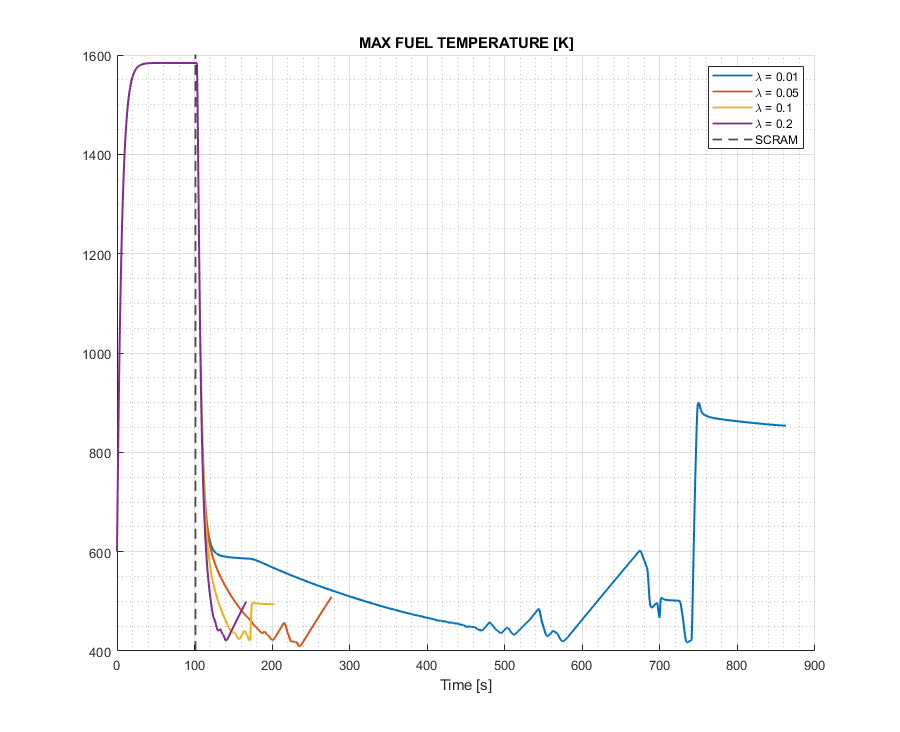
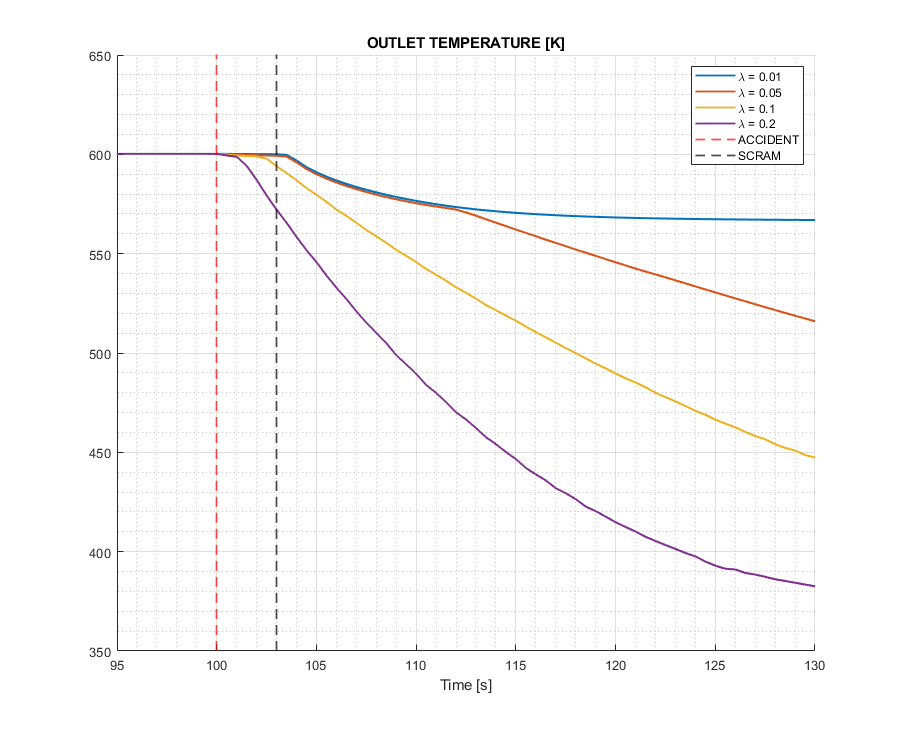
update

diff --git a/Transients/PWR/Depressurization/SCRAM/analysis/analyze.html b/Transients/PWR/Depressurization/SCRAM/analysis/analyze.html
@@ -67,7 +67,7 @@ table td { padding:7px 5px; text-align:left; vertical-align:top; border:1px soli
 
 
 
-  </style></head><body><div class="content"><img vspace="5" hspace="5" src="analyze_01.png" alt=""> <img vspace="5" hspace="5" src="analyze_02.png" alt=""> <img vspace="5" hspace="5" src="analyze_03.png" alt=""> <p class="footer"><br><a href="https://www.mathworks.com/products/matlab/">Published with MATLAB&reg; R2022a</a><br></p></div><!--
+  </style></head><body><div class="content"><img vspace="5" hspace="5" src="analyze_01.png" alt=""> <img vspace="5" hspace="5" src="analyze_02.png" alt=""> <img vspace="5" hspace="5" src="analyze_03.png" alt=""> <img vspace="5" hspace="5" src="analyze_04.png" alt=""> <img vspace="5" hspace="5" src="analyze_05.png" alt=""> <img vspace="5" hspace="5" src="analyze_06.png" alt=""> <img vspace="5" hspace="5" src="analyze_07.png" alt=""> <p class="footer"><br><a href="https://www.mathworks.com/products/matlab/">Published with MATLAB&reg; R2022a</a><br></p></div><!--
 ##### SOURCE BEGIN #####
 addpath(genpath('../../../../../utils/'));
 warning('OFF', 'MATLAB:table:ModifiedAndSavedVarnames')
@@ -80,7 +80,8 @@ clc
 %%%%%%%%%%%%%%%%%%%%%%%%%%%%%%%%%%%%%%%%%%%%%%%%%
 
 lambdas = [0.01, 0.05, 0.1, 0.2];
-scram_time = 101; % [s]
+accident_time = 100; % [s]
+scram_time = 103;    % [s]
 
 % Creo una struct. Ogni elemento di questa struct rappresenta un
 % esperimento di depressurizzazione. Esiste un field principale detto
@@ -114,8 +115,9 @@ for i=1:length(lambdas)
 
     % CALCOLO CHF_W3 (devo fare un loop per come è implementata la
     % correlazione (richiede vettori, non matrici)
+    data(i).CHF_W3 = [];
     for j=1:length(data(i).time)
-        data(i).CHF_W3 = CHF_W3(data(i).pressure_axial(j,:), data(i).quality_axial(j,:), 0.335, data(i).enthalpy_f_axial(j,:), data(i).heat_flux_axial(j,:), 8.79e-5, 1.17808e-2, 3.876); % [kW/m2]
+        data(i).CHF_W3 = [data(i).CHF_W3; CHF_W3(data(i).pressure_axial(j,:), data(i).quality_axial(j,:), 0.335, data(i).enthalpy_f_axial(j,:), data(i).heat_flux_axial(j,:), 8.79e-5, 1.17808e-2, 3.876)]; % [kW/m2]
     end
 
     data(i).CHFR = data(i).CHF_W3./data(i).heat_flux_axial;
@@ -138,22 +140,24 @@ for i=1:length(lambdas)
     new = sprintf("\\lambda = %s", string(lambdas(i)));
     labels = [labels new];
 end
-labels = [labels "SCRAM"];
+labels = [labels "ACCIDENT" "SCRAM"];
 
 
 
 % REPLACE_WITH_DASH_DASHREPLACE_WITH_DASH_DASHREPLACE_WITH_DASH_DASH TOTAL POWER REPLACE_WITH_DASH_DASHREPLACE_WITH_DASH_DASHREPLACE_WITH_DASH_DASH-
-f = figure('Position', [10 10 900 900], 'Visible','off');
+f = figure('Position', [10 10 900 900]);
 hold on
 for i=1:length(data)
     plot(data(i).time,data(i).power, 'LineWidth', 1.3);
 end
+xline(accident_time, 'LineWidth', 1.4, 'LineStyle', 'REPLACE_WITH_DASH_DASH', 'Color', 'r')
 xline(scram_time, 'LineWidth', 1.4, 'LineStyle', 'REPLACE_WITH_DASH_DASH', 'Color', 'k')
 hold off
 grid on, grid minor
 xlabel('Time [s]')
 title('TOTAL POWER EXCHANGED [kW]')
 legend(labels)
+xlim([95 120])
 %saveas(f, "TOTAL POWER.png")
 
 
@@ -163,11 +167,13 @@ hold on
 for i=1:length(data)
     plot(data(i).time,data(i).outlet_temperature, 'LineWidth', 1.3);
 end
+xline(accident_time, 'LineWidth', 1.4, 'LineStyle', 'REPLACE_WITH_DASH_DASH', 'Color', 'r')
 xline(scram_time, 'LineWidth', 1.4, 'LineStyle', 'REPLACE_WITH_DASH_DASH', 'Color', 'k')
 hold off
 grid on, grid minor
 xlabel('Time [s]')
 title('OUTLET TEMPERATURE [K]')
+xlim([95 130])
 legend(labels)
 
 
@@ -179,11 +185,13 @@ hold on
 for i=1:length(data)
     plot(data(i).time,max(data(i).max_fuel_temp_axial, [], 2), 'LineWidth', 1.3);
 end
+xline(accident_time, 'LineWidth', 1.4, 'LineStyle', 'REPLACE_WITH_DASH_DASH', 'Color', 'r')
 xline(scram_time, 'LineWidth', 1.4, 'LineStyle', 'REPLACE_WITH_DASH_DASH', 'Color', 'k')
 hold off
 grid on, grid minor
 xlabel('Time [s]')
 title('MAX FUEL TEMPERATURE [K]')
+xlim([95 160])
 legend(labels)
 
 
@@ -193,13 +201,62 @@ hold on
 for i=1:length(data)
     plot(data(i).time,min(data(i).CHFR, [], 2), 'LineWidth', 1.3);
 end
+xline(accident_time, 'LineWidth', 1.4, 'LineStyle', 'REPLACE_WITH_DASH_DASH', 'Color', 'r')
 xline(scram_time, 'LineWidth', 1.4, 'LineStyle', 'REPLACE_WITH_DASH_DASH', 'Color', 'k')
 hold off
 grid on, grid minor
 xlabel('Time [s]')
 title('MDNBR (W-3 Correlation)')
+ylim([0 7])
+xlim([95 106])
 legend(labels)
 
+% REPLACE_WITH_DASH_DASHREPLACE_WITH_DASH_DASHREPLACE_WITH_DASH_DASH- MEAN VOID FRACTION REPLACE_WITH_DASH_DASHREPLACE_WITH_DASH_DASHREPLACE_WITH_DASH_DASH-
+figure('Position', [10 10 900 900])
+hold on
+for i=1:length(data)
+    plot(data(i).time,mean(data(i).void_fraction_axial,2), 'LineWidth', 1.3);
+end
+xline(accident_time, 'LineWidth', 1.4, 'LineStyle', 'REPLACE_WITH_DASH_DASH', 'Color', 'r')
+xline(scram_time, 'LineWidth', 1.4, 'LineStyle', 'REPLACE_WITH_DASH_DASH', 'Color', 'k')
+hold off
+grid on, grid minor
+xlabel('Time [s]')
+title('MEAN VOID FRACTION')
+ylim([0 1])
+xlim([95 160])
+legend(labels)
+
+
+% REPLACE_WITH_DASH_DASHREPLACE_WITH_DASH_DASHREPLACE_WITH_DASH_DASH- MEAN PRESSURE REPLACE_WITH_DASH_DASHREPLACE_WITH_DASH_DASHREPLACE_WITH_DASH_DASH-
+figure('Position', [10 10 900 900])
+hold on
+for i=1:length(data)
+    plot(data(i).time,mean(data(i).pressure_axial,2)./1e5, 'LineWidth', 1.3);
+end
+xline(accident_time, 'LineWidth', 1.4, 'LineStyle', 'REPLACE_WITH_DASH_DASH', 'Color', 'r')
+xline(scram_time, 'LineWidth', 1.4, 'LineStyle', 'REPLACE_WITH_DASH_DASH', 'Color', 'k')
+hold off
+grid on, grid minor
+xlabel('Time [s]')
+title('MEAN PRESSURE [bar]')
+xlim([95 160])
+legend(labels)
+
+% REPLACE_WITH_DASH_DASHREPLACE_WITH_DASH_DASHREPLACE_WITH_DASH_DASH- MEAN HTC REPLACE_WITH_DASH_DASHREPLACE_WITH_DASH_DASHREPLACE_WITH_DASH_DASH-
+figure('Position', [10 10 900 900])
+hold on
+for i=1:length(data)
+    plot(data(i).time,mean(data(i).htc_axial,2), 'LineWidth', 1.3);
+end
+xline(accident_time, 'LineWidth', 1.4, 'LineStyle', 'REPLACE_WITH_DASH_DASH', 'Color', 'r')
+xline(scram_time, 'LineWidth', 1.4, 'LineStyle', 'REPLACE_WITH_DASH_DASH', 'Color', 'k')
+hold off
+grid on, grid minor
+xlabel('Time [s]')
+title('MEAN HTC [kW/m^2/°K]')
+xlim([95 110])
+legend(labels)
 
 
 
@@ -208,34 +265,42 @@ legend(labels)
 %%%%%%%%%%%%%%%%%%%%%%%%%%%%%%%%%%%%%%%%%%%%%%%%%
 
 % % REPLACE_WITH_DASH_DASHREPLACE_WITH_DASH_DASH- PROFILE CHFR REPLACE_WITH_DASH_DASHREPLACE_WITH_DASH_DASHREPLACE_WITH_DASH_DASH-
-% idx = 2;
+% idx = 1;
+% f0 = 1; % initial frame (timestep)
 % figure('Position', [10 10 300 900])
-% axial_plot(horzcat(data(idx).time, data(idx).CHFR), true, 'Animation Profile - CHFR (W3)', 'CHFR', 10)
+% axial_plot(horzcat(data(idx).time(f0:end,:), data(idx).CHFR(f0:end,:)), true, 'Animation Profile - CHFR (W3)', 'CHFR', 10)
 
 % 
-% % REPLACE_WITH_DASH_DASHREPLACE_WITH_DASH_DASH- PROFILE HTMODE REPLACE_WITH_DASH_DASHREPLACE_WITH_DASH_DASHREPLACE_WITH_DASH_DASH-
-% idx = 1;
-% f0 = 180; % initial frame (timestep)
+% REPLACE_WITH_DASH_DASHREPLACE_WITH_DASH_DASH- PROFILE HTMODE REPLACE_WITH_DASH_DASHREPLACE_WITH_DASH_DASHREPLACE_WITH_DASH_DASH-
+% idx = 2;
+% f0 = 195; % initial frame (timestep)
 % figure('Position', [10 10 300 900])
 % htmode_plot(horzcat(data(idx).time(f0:end,:), data(idx).ht_mode_axial(f0:end,:)), true, 'Animation Profile - Heat Transfer Mode', '', 1)
+
+% REPLACE_WITH_DASH_DASHREPLACE_WITH_DASH_DASH- PROFILE FLOW REGIME REPLACE_WITH_DASH_DASHREPLACE_WITH_DASH_DASHREPLACE_WITH_DASH_DASH-
+% idx = 2;
+% f0 = 180; % initial frame (timestep)
+% figure('Position', [10 10 300 900])
+% flowreg_plot(horzcat(data(idx).time(f0:end,:), data(idx).flow_regimes_axial(f0:end,:)), true, 'Animation Profile - Flow Regime', '', 1)
+
 %
 % % REPLACE_WITH_DASH_DASHREPLACE_WITH_DASH_DASH- PROFILE HTC REPLACE_WITH_DASH_DASHREPLACE_WITH_DASH_DASHREPLACE_WITH_DASH_DASH-
 % idx = 1;
 % f0 = 1; % initial frame (timestep)
 % figure('Position', [10 10 300 900])
 % axial_plot(horzcat(data(idx).time(f0:end,:), data(idx).htc_axial(f0:end,:)), true, 'Animation Profile - HTC [kW/m^2/°K]', 'HTC [kW/m^2/°K]', 60)
-%
-% % REPLACE_WITH_DASH_DASHREPLACE_WITH_DASH_DASH- PROFILE VOID FRACTION REPLACE_WITH_DASH_DASHREPLACE_WITH_DASH_DASHREPLACE_WITH_DASH_DASH-
+
+% REPLACE_WITH_DASH_DASHREPLACE_WITH_DASH_DASH- PROFILE VOID FRACTION REPLACE_WITH_DASH_DASHREPLACE_WITH_DASH_DASHREPLACE_WITH_DASH_DASH-
 % idx = 1;
-% f0 = 1; % initial frame (timestep)
+% f0 = 100; % initial frame (timestep)
 % figure('Position', [10 10 300 900])
 % axial_plot(horzcat(data(idx).time(f0:end,:), data(idx).void_fraction_axial(f0:end,:)), true, 'Animation Profile - Void Fraction ( \alpha )', 'Void Fraction ( \alpha )', 1)
-%
+
 % % REPLACE_WITH_DASH_DASHREPLACE_WITH_DASH_DASH- PROFILE RADIAL TEMPERATURE REPLACE_WITH_DASH_DASHREPLACE_WITH_DASH_DASHREPLACE_WITH_DASH_DASH-
-% idx = 1;
-% f0 = 1; % initial frame (timestep)
+% idx = 3;
+% f0 = 180; % initial frame (timestep)
 % figure(10)
-% radial_plot_fuel(horzcat(data(idx).center_radial_temp_profile, data(idx).time), true, 'pwr')
+% radial_plot_fuel(horzcat(data(idx).center_radial_temp_profile(f0:end, :), data(idx).time(f0:end,:)), true, 'pwr')
 
 
 

diff --git a/utils/other/flowreg_plot.m b/utils/other/flowreg_plot.m
@@ -16,13 +16,14 @@ if animate
     time = data(:,1);
     data = data(:,2:end);
     for i=2:length(time)
+        clf
         patch([55 100 100 55], [0 0 1 1], [1 1 1])
         patch([0 45 45 0], [0 0 1 1], [1 1 1])
         hold on
         for j=1:length(data(i,:))
           patch([0 100 100 0], [j-1 j-1 j j]./length(data(i,:)), flow_colors(data(i,j),:), 'LineStyle', 'none')
-          text(15,(i-0.5)/length(data),flow_texts(data(i)), 'FontSize', 7, 'FontWeight','bold')
-          text(65,(i-0.5)/length(data),flow_texts(data(i)), 'FontSize', 7, 'FontWeight','bold')
+          text(15,(j-0.5)/length(data(i,:)),flow_texts(data(i)), 'FontSize', 7, 'FontWeight','bold')
+          text(65,(j-0.5)/length(data(i,:)),flow_texts(data(i)), 'FontSize', 7, 'FontWeight','bold')
         end
         hold off
         alpha(.75)

diff --git a/utils/other/htmode_plot.m b/utils/other/htmode_plot.m
@@ -18,13 +18,14 @@ if animate
     time = data(:,1);
     data = data(:,2:end);
     for i=2:length(time)
+        clf
         patch([55 100 100 55], [0 0 1 1], [1 1 1])
         patch([0 45 45 0], [0 0 1 1], [1 1 1])
         hold on
         for j=1:length(data(i,:))
           patch([0 100 100 0], [j-1 j-1 j j]./length(data(i,:)), ht_colors(data(i,j)+1,:), 'LineStyle', 'none')
-          text(20,(i-0.5)/length(data),ht_texts(data(i)+1), 'FontSize', 8, 'FontWeight','bold')
-          text(70,(i-0.5)/length(data),ht_texts(data(i)+1), 'FontSize', 8, 'FontWeight','bold')
+          text(20,(j-0.5)/length(data(i,:)),ht_texts(data(i)+1), 'FontSize', 8, 'FontWeight','bold')
+          text(70,(j-0.5)/length(data(i,:)),ht_texts(data(i)+1), 'FontSize', 8, 'FontWeight','bold')
         end
         hold off
         alpha(.75)

diff --git a/utils/other/radial_plot_fuel.m b/utils/other/radial_plot_fuel.m
@@ -51,8 +51,8 @@ function [] = radial_plot_fuel(tt, animate, reactor_type)
             drawnow nocallbacks
 
             dim = [.2 0 .3 .3];
-            timestep = num2str(time(i));
-            str = strcat('TIME:',{'  '}, timestep(1:5), ' s');
+            timestep = sprintf("%.1f", time(i));
+            str = strcat('TIME:',{'  '}, timestep, ' s');
             annotation('textbox',dim,'String',str, 'FitBoxToText','on', 'BackgroundColor','w');
         end
 
